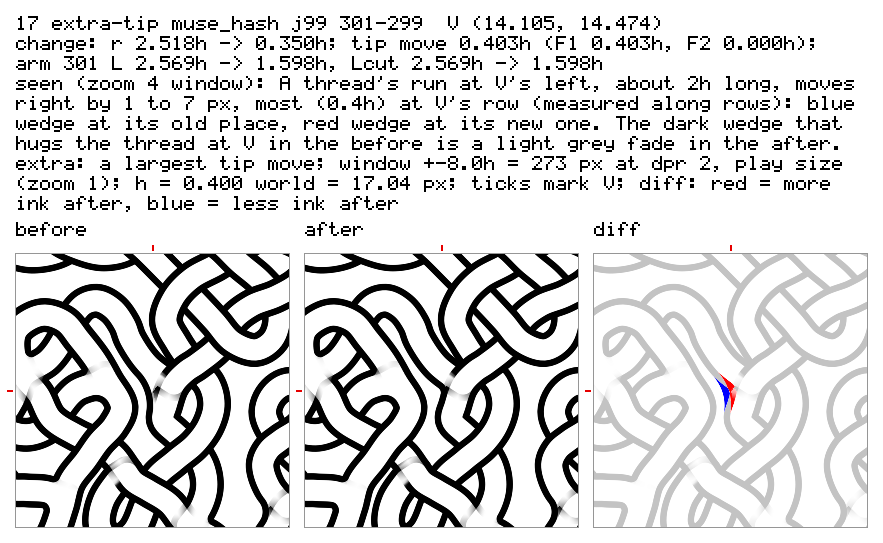
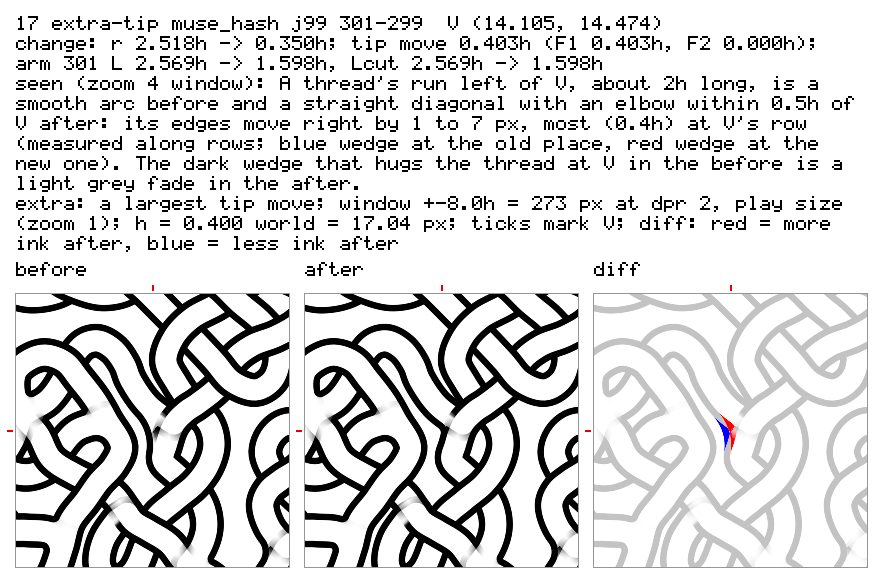
K1114 S1h: site 17's elbow in its seen line; s1h_runs.ts and s1h_zoom.ts kept (WIP)
s1h_runs.ts scans the forms' ink runs along rows or columns through a site
(the figures of sites 05, 16, 17 and 18 come from it); s1h_zoom.ts makes the
zoom 6-10 crops (before | after | signed diff) the seen lines were written from.

Claude-Session: https://claude.ai/code/session_01TnQvxftruF6gxzRe3bigQ6

Changed region(s): [[0.0, 0.0295, 1.0, 0.9724], [0.9479, 0.9429, 0.9785, 0.9724], [0.8867, 0.9429, 0.9173, 0.9724]]

diff --git a/.claude/probes/K1040/s1/s1h_runs.ts b/.claude/probes/K1040/s1/s1h_runs.ts
@@ -1,0 +1,49 @@
+// K1114 S1h: ink runs along rows or columns through a site, before (S1f's final, form_b_s1f_q.ts) and after (today's
+// defaults), at the 0.5 ink level, in device px from V at dpr 2. The `seen` figures of sites 05, 16, 17 and 18 were
+// measured with it.
+// Usage (from the worktree): ARGS="<scene> <X world> <Y world> <axis> <from>:<to>:<step> <halfH> <lo>:<hi>" \
+//   npx.cmd vite-node .claude/probes/K1040/s1/s1h_runs.ts
+// axis x = rows (the run varies in x; from:to:step are row offsets in device px from V), axis y = columns. Only runs that
+// touch [lo, hi] (device px from V along the run's axis) are printed, and only for rows/columns where before and after
+// differ. Example (site 17: the thread's run left of V moves right by up to 7 px):
+//   ARGS="muse_hash 14.105 14.474 x -60:60:2 3 -30:30"
+import { readFileSync } from "node:fs";
+import type { FieldScene } from "../../../../src/render/field/scene";
+import { FormB } from "../../../../src/render/field/form_b";
+import { FormB as FormBOld } from "./form_b_s1f_q";
+
+const [scene, X, Y, axis, range, halfH, win] = (process.env.ARGS ?? "").split(" ");
+const sc = JSON.parse(readFileSync(`C:/Users/lsl/Repositories/knotmaze/.claude/probes/K868/scenes/${scene}.json`, "utf8")) as FieldScene;
+sc.look.ctrlArc ??= 0.47;
+const O = new FormBOld(sc, { dpr: 2 });
+const N = new FormB(sc, { dpr: 2 });
+const ppu = N.ppuDev;
+const hdev = O.h * ppu;
+const half = Math.round(Number(halfH) * hdev);
+const x = Number(X);
+const y = Number(Y);
+const [r0, r1, rs] = range.split(":").map(Number);
+const [lo, hi] = win.split(":").map(Number);
+function runs(form: { evalPoint(x: number, y: number): { ink: number } }, o: number) {
+  const out: [number, number][] = [];
+  let a: number | null = null;
+  for (let k = -half; k <= half; k++) {
+    const px = axis === "x" ? x + k / ppu : x + o / ppu;
+    const py = axis === "x" ? y + o / ppu : y + k / ppu;
+    const ink = form.evalPoint(px, py).ink;
+    if (ink > 0.5 && a === null) a = k;
+    if (ink <= 0.5 && a !== null) {
+      out.push([a, k - 1]);
+      a = null;
+    }
+  }
+  if (a !== null) out.push([a, half]);
+  return out.filter(([s, e]) => e >= lo && s <= hi);
+}
+const fmt = (r: [number, number][]) => r.map(([s, e]) => `${s}..${e}`).join(" ");
+console.log(`${scene} V (${X}, ${Y}) ${axis === "x" ? "rows" : "columns"} ${range}, h = ${hdev.toFixed(2)} px; ink > 0.5 runs touching [${lo}, ${hi}] (device px from V):`);
+for (let o = r0; o <= r1; o += rs) {
+  const a = fmt(runs(O, o));
+  const b = fmt(runs(N, o));
+  if (a !== b) console.log(`  ${String(o).padStart(4)}: before ${a.padEnd(18)} after ${b}`);
+}

diff --git a/.claude/probes/K1040/s1/s1h_zoom.ts b/.claude/probes/K1040/s1/s1h_zoom.ts
@@ -1,0 +1,37 @@
+// K1114 S1h: zoomed crop of one site, before | after | diff side by side, no labels (the crops the `seen` lines were
+// written from at zoom 6-8). The diff is signed like s1h_pair.ts's: red = more ink after, blue = less ink after, over a
+// faint grey of the larger ink. before = S1f's final (form_b_s1f_q.ts), after = today's defaults (src/render/field/form_b.ts).
+// Usage (from the worktree): ARGS="<scene> <X world> <Y world> <halfH> <zoom> <out.png>" \
+//   npx.cmd vite-node .claude/probes/K1040/s1/s1h_zoom.ts      (or the same six words as arguments)
+// Example: ARGS="muse_hash 14.105 14.474 2 8 $env:TEMP\s17.png"  (the window is 2 * halfH * h device px square, dpr 2).
+import { readFileSync, writeFileSync } from "node:fs";
+import type { FieldScene } from "../../../../src/render/field/scene";
+import { FormB } from "../../../../src/render/field/form_b";
+import { FormB as FormBOld } from "./form_b_s1f_q";
+import { encodePng } from "../../../../test/render/field/png";
+const [scene, X, Y, halfH, zoom, out] = process.argv.slice(2).length ? process.argv.slice(2) : (process.env.ARGS ?? "").split(" ");
+const sc = JSON.parse(readFileSync(`C:/Users/lsl/Repositories/knotmaze/.claude/probes/K868/scenes/${scene}.json`, "utf8")) as FieldScene;
+sc.look.ctrlArc ??= 0.47;
+const O: any = new FormBOld(sc, { dpr: 2 });
+const N: any = new FormB(sc, { dpr: 2 });
+const ppu = N.ppuDev, h = O.h, z = +zoom;
+const n = Math.round(+halfH * 2 * h * ppu);
+// The grid is aligned to the device-pixel lattice and centred on the site.
+const x0 = Math.round(+X * ppu - n / 2) / ppu, y0 = Math.round(+Y * ppu - n / 2) / ppu;
+const W = 3 * n * z + 2 * 8, H = n * z;
+const d = new Uint8Array(W * H * 4).fill(255);
+const put = (px: number, py: number, c: number[]) => { const o = (py * W + px) * 4; d[o] = c[0]; d[o + 1] = c[1]; d[o + 2] = c[2]; d[o + 3] = 255; };
+for (let j = 0; j < n; j++) for (let i = 0; i < n; i++) {
+  const wx = x0 + (i + 0.5) / ppu, wy = y0 + (j + 0.5) / ppu;
+  const a = O.evalPoint(wx, wy).ink, b = N.evalPoint(wx, wy).ink;
+  const ga = Math.round(255 * (1 - a)), gb = Math.round(255 * (1 - b));
+  const dd = b - a, df = Math.abs(dd), base = 255 - Math.round(60 * Math.max(a, b));
+  const lo = Math.round(base * (1 - Math.min(1, df * 1.5)));
+  const c3 = df > 0.004 ? (dd > 0 ? [255, lo, lo] : [lo, lo, 255]) : [base, base, base];
+  for (let q = 0; q < z; q++) for (let r = 0; r < z; r++) {
+    put(i * z + r, j * z + q, [ga, ga, ga]);
+    put(n * z + 8 + i * z + r, j * z + q, [gb, gb, gb]);
+    put(2 * (n * z + 8) + i * z + r, j * z + q, c3);
+  }
+}
+writeFileSync(out, encodePng(W, H, d));

diff --git a/.claude/probes/K1040/s1/s1h_pair.ts b/.claude/probes/K1040/s1/s1h_pair.ts
@@ -350,7 +350,7 @@ const SEEN: Record<string, string> = {
   "muse_hash/j131/397-398":
     "The thread below V: before, a wide smooth arc with clear paper between it and V's fillet tip; after, it rises into a hump about 2.6h wide that peaks at V's tip (red, up to 13 px or 0.8h higher, measured along columns) and the old arc under the hump is gone (blue). The largest change of the 18.",
   "muse_hash/j99/301-299":
-    "A thread's run at V's left, about 2h long, moves right by 1 to 7 px, most (0.4h) at V's row (measured along rows): blue wedge at its old place, red wedge at its new one. The dark wedge that hugs the thread at V in the before is a light grey fade in the after.",
+    "A thread's run left of V, about 2h long, is a smooth arc before and a straight diagonal with an elbow within 0.5h of V after: its edges move right by 1 to 7 px, most (0.4h) at V's row (measured along rows; blue wedge at the old place, red wedge at the new one). The dark wedge that hugs the thread at V in the before is a light grey fade in the after.",
   "muse_hash/j73/222-220":
     "Two places. The small eye just below V: its right end, pointed with a slit through the outline before, is closed and rounded after (red in the slit and above the end, blue along its right and lower-right edge). About 2.7h above V: a thread tip's outer edge gains 1 to 2 px (a small red crescent about 8 px across).",
 };

diff --git a/.claude/probes/K1040/s1/out/s1h/index.md b/.claude/probes/K1040/s1/out/s1h/index.md
@@ -35,7 +35,7 @@ written from looking at the zoom 4 pictures and zoom 6-8 crops of the same windo
 | 14 | F2-r | g41_user_tw42 | j49 151-152 (θ 3.024), V (13.721, 6.030) | r 2.000h -> 0.037h; tip move 0.074h (F1 0.000h, F2 0.074h) | 24 px differ (lost 2, gained 5; area 2.7 px); bbox x -0.39..0.10h, y -0.29..0.34h | The same corner as site 13 with the same numbers (24 px, the same window), in another scene file. | [z1](14_F2-r_g41_user_tw42_j49_151-152_z1.png) [z4](14_F2-r_g41_user_tw42_j49_151-152_z4.png) |
 | 15 | F2-r | muse_hash | j124 375-376 (θ 2.218), V (13.412, 9.743) | r 1.967h -> 0.078h; tip move 0.087h (F1 0.000h, F2 0.087h) | 48 px differ (lost 9, gained 11; area 3.3 px); bbox x -0.34..0.19h, y -0.56..0.32h | A short jog in the thread's left outline at V, which is smooth before: after, a notch of about 2 px over about 0.5h (ink gained on the left edge, lost on the right edge). | [z1](15_F2-r_muse_hash_j124_375-376_z1.png) [z4](15_F2-r_muse_hash_j124_375-376_z4.png) |
 | 16 | extra-tip | muse_hash | j131 397-398 (θ 1.630), V (28.594, 9.559) | r 3.183h -> 0.392h; tip move 0.748h (F1 0.748h, F2 0.000h); arm 397 L 3.208h -> 2.135h, Lcut 3.208h -> 2.135h | 549 px differ (lost 184, gained 273; area 77.2 px); bbox x -1.55..1.44h, y -0.21..1.66h | The thread below V: before, a wide smooth arc with clear paper between it and V's fillet tip; after, it rises into a hump about 2.6h wide that peaks at V's tip (red, up to 13 px or 0.8h higher, measured along columns) and the old arc under the hump is gone (blue). The largest change of the 18. | [z1](16_extra-tip_muse_hash_j131_397-398_z1.png) [z4](16_extra-tip_muse_hash_j131_397-398_z4.png) |
-| 17 | extra-tip | muse_hash | j99 301-299 (θ 2.003), V (14.105, 14.474) | r 2.518h -> 0.350h; tip move 0.403h (F1 0.403h, F2 0.000h); arm 301 L 2.569h -> 1.598h, Lcut 2.569h -> 1.598h | 318 px differ (lost 109, gained 106; area -9.6 px); bbox x -0.96..0.34h, y -1.06..1.29h | A thread's run at V's left, about 2h long, moves right by 1 to 7 px, most (0.4h) at V's row (measured along rows): blue wedge at its old place, red wedge at its new one. The dark wedge that hugs the thread at V in the before is a light grey fade in the after. | [z1](17_extra-tip_muse_hash_j99_301-299_z1.png) [z4](17_extra-tip_muse_hash_j99_301-299_z4.png) |
+| 17 | extra-tip | muse_hash | j99 301-299 (θ 2.003), V (14.105, 14.474) | r 2.518h -> 0.350h; tip move 0.403h (F1 0.403h, F2 0.000h); arm 301 L 2.569h -> 1.598h, Lcut 2.569h -> 1.598h | 318 px differ (lost 109, gained 106; area -9.6 px); bbox x -0.96..0.34h, y -1.06..1.29h | A thread's run left of V, about 2h long, is a smooth arc before and a straight diagonal with an elbow within 0.5h of V after: its edges move right by 1 to 7 px, most (0.4h) at V's row (measured along rows; blue wedge at the old place, red wedge at the new one). The dark wedge that hugs the thread at V in the before is a light grey fade in the after. | [z1](17_extra-tip_muse_hash_j99_301-299_z1.png) [z4](17_extra-tip_muse_hash_j99_301-299_z4.png) |
 | 18 | extra-tip | muse_hash | j73 222-220 (θ 1.309), V (5.355, 14.738) | r 0.297h -> 0.460h; tip move 0.337h (F1 0.337h, F2 0.000h); arm 222 L 6.958h -> 4.229h, Lcut inf -> 4.229h | 166 px differ (lost 32, gained 60; area 22.3 px); bbox x -1.09..0.79h, y -3.07..1.16h | Two places. The small eye just below V: its right end, pointed with a slit through the outline before, is closed and rounded after (red in the slit and above the end, blue along its right and lower-right edge). About 2.7h above V: a thread tip's outer edge gains 1 to 2 px (a small red crescent about 8 px across). | [z1](18_extra-tip_muse_hash_j73_222-220_z1.png) [z4](18_extra-tip_muse_hash_j73_222-220_z4.png) |
 
 ## Reading the rows
